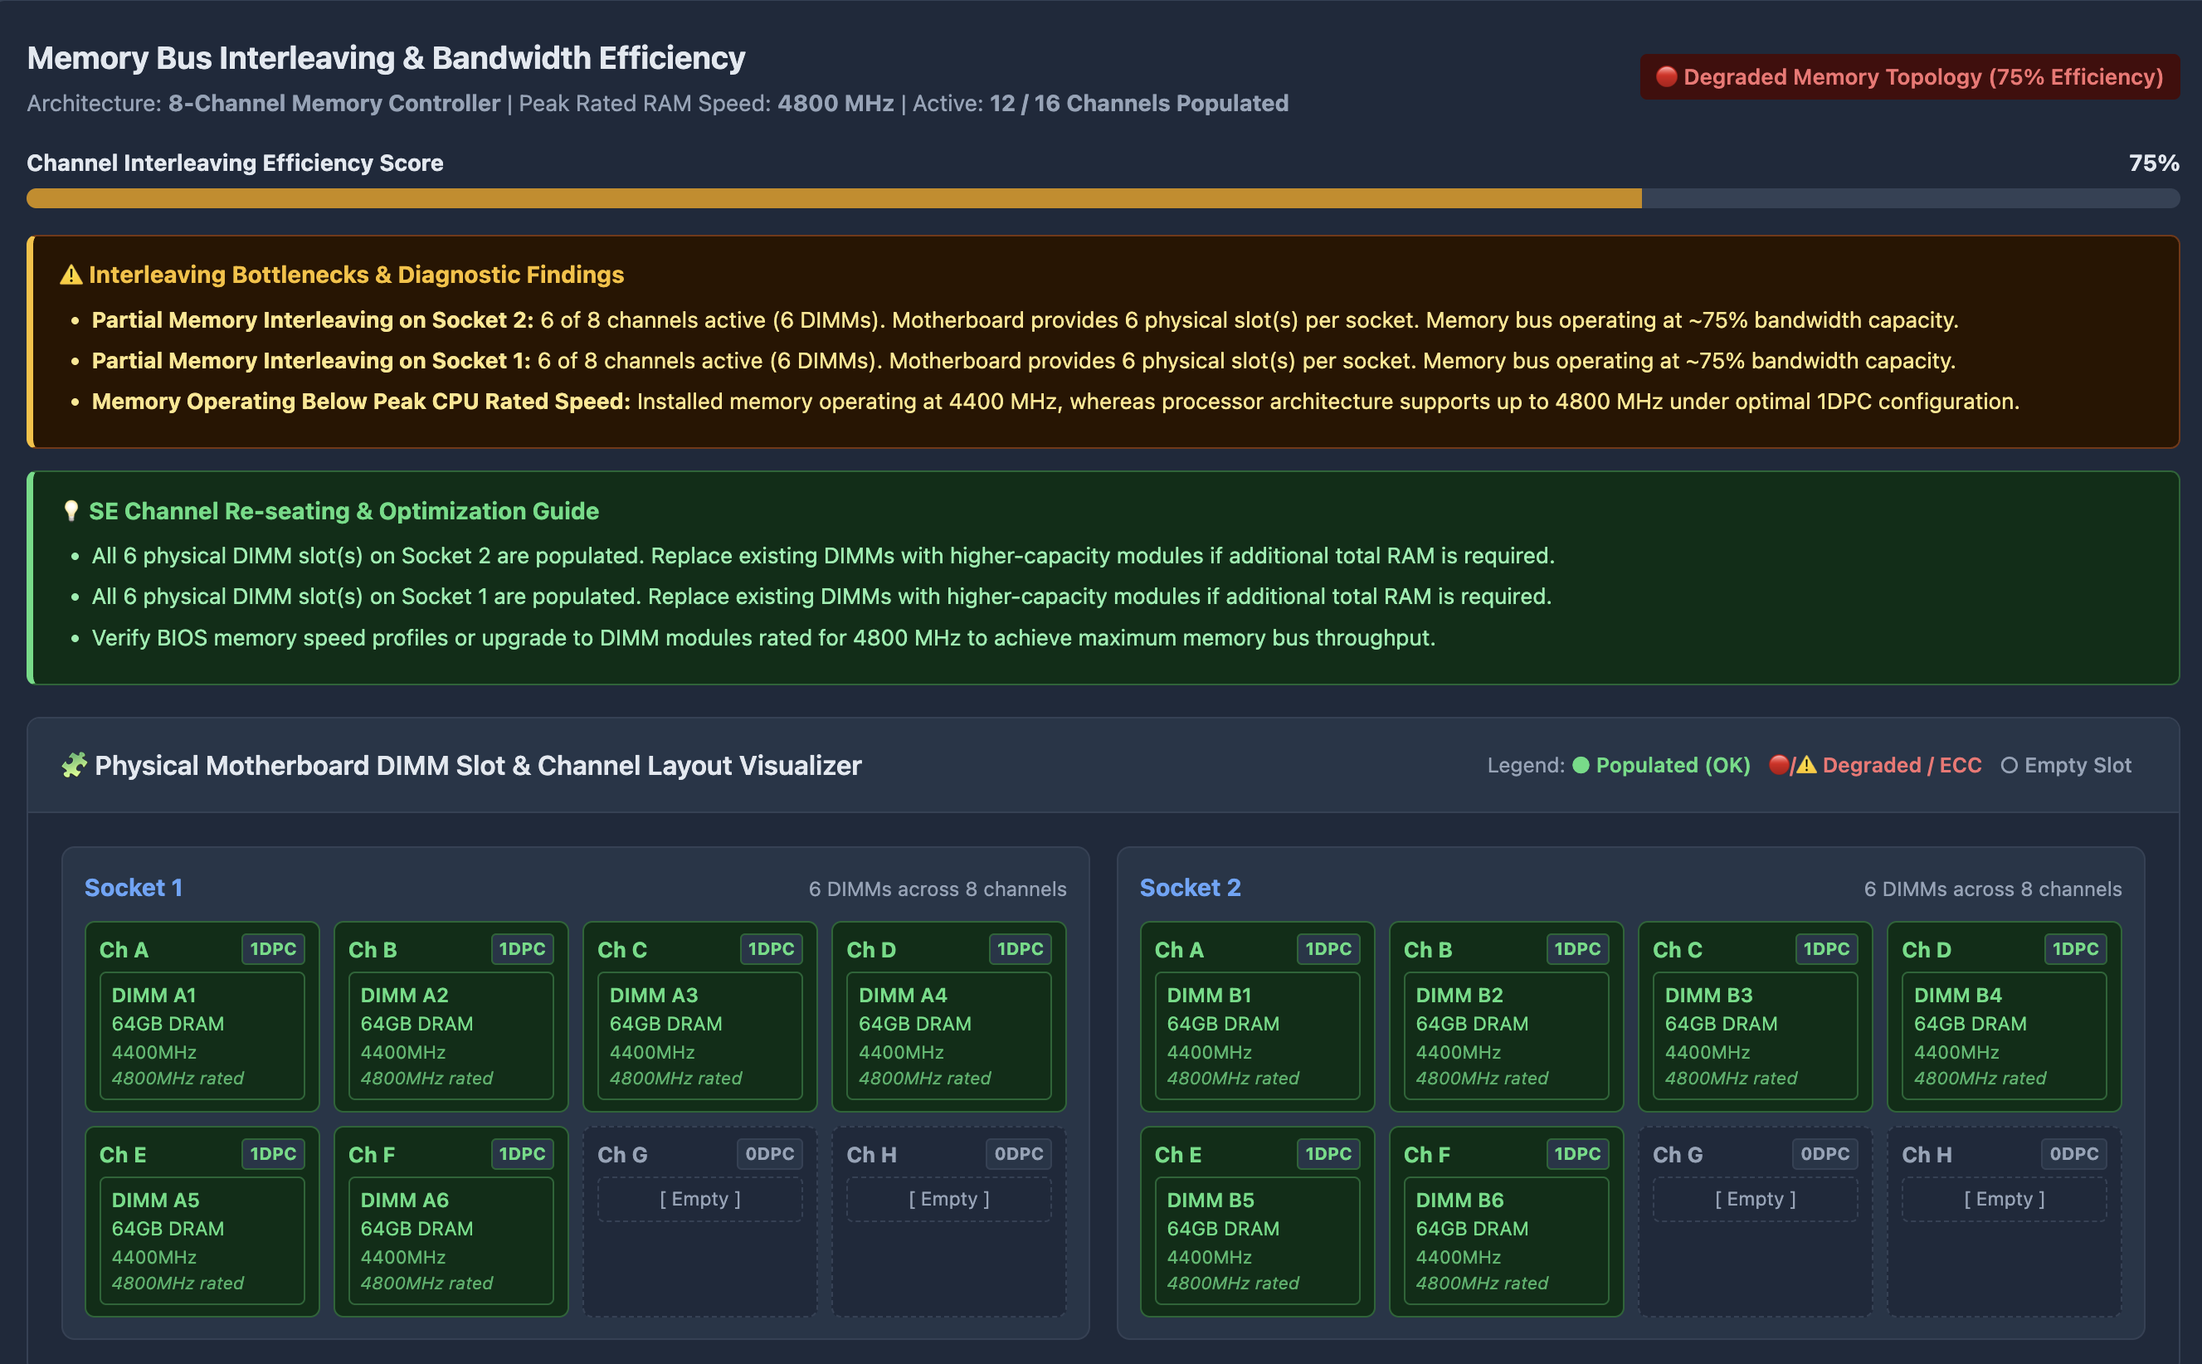
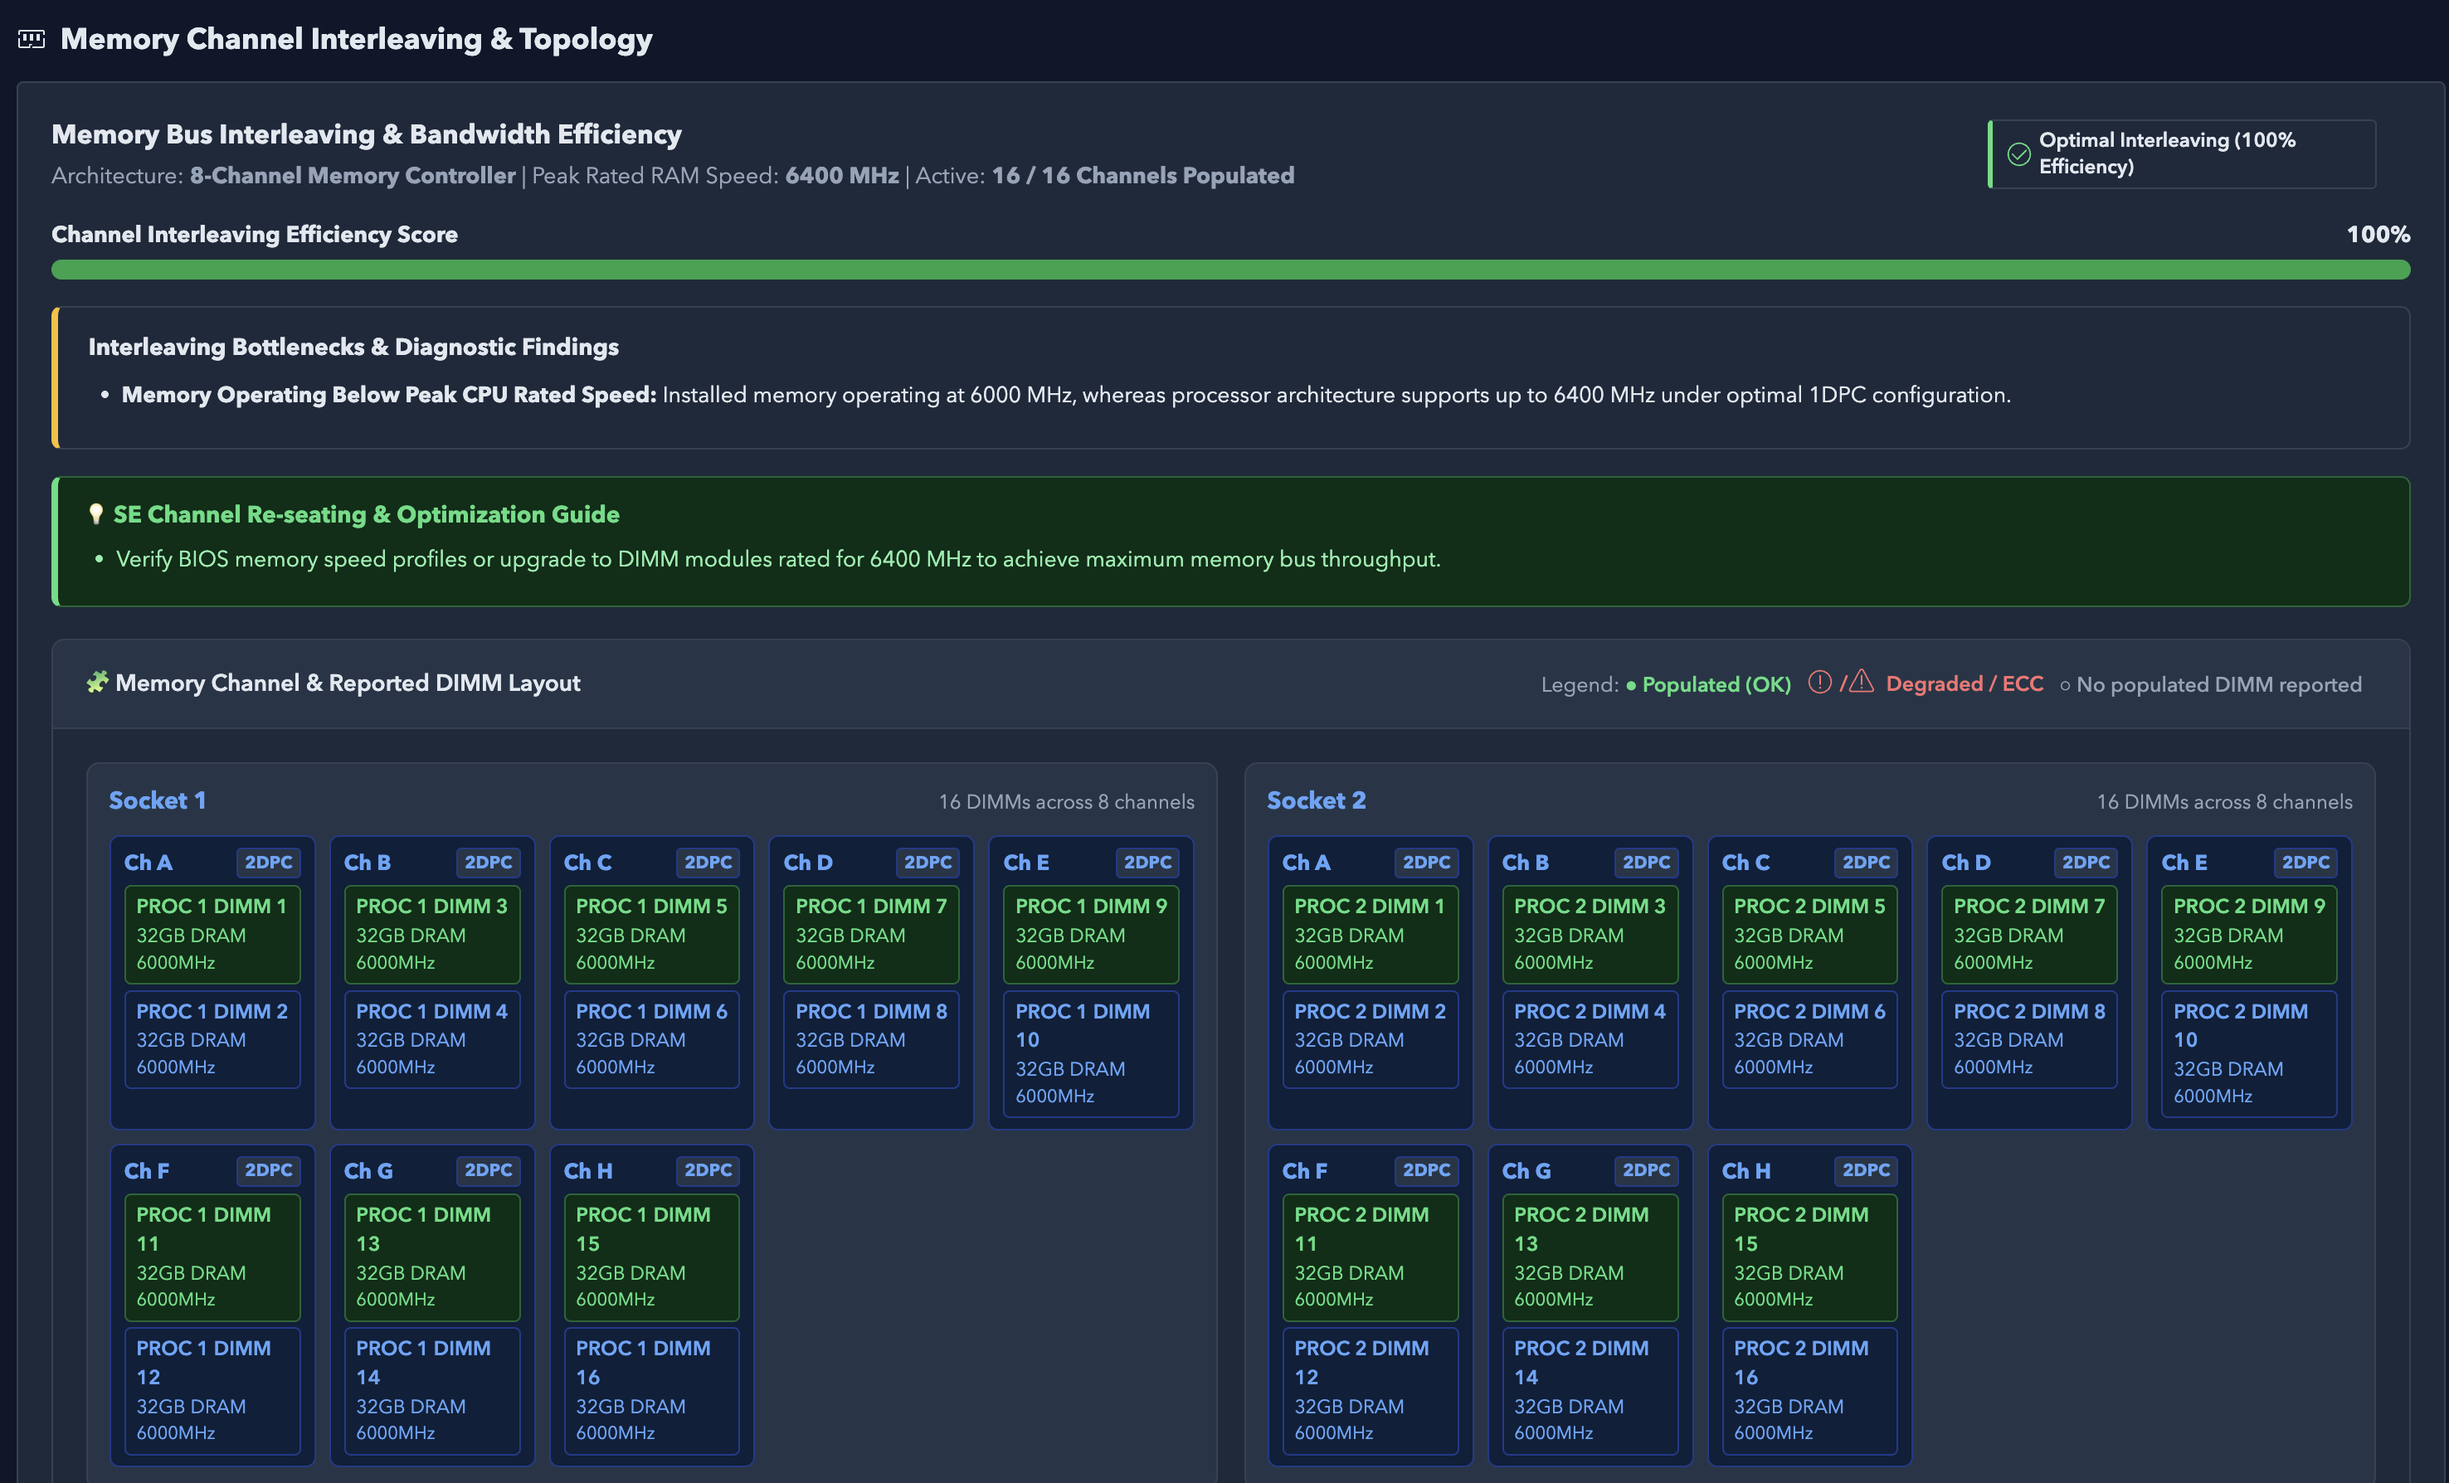
Refresh landing-page screenshots and showcase (#3)

diff --git a/README.md b/README.md
@@ -197,87 +197,63 @@ python3 vcfr_collector.py --from-summary ./VCF-Scans/Scan_example
 
 ## 📊 Visual Report Showcase
 
-Every assessment run generates rich, standalone HTML deliverables (an aggregated **Fleet Summary** and individual **Host Reports**) with zero runtime external asset dependencies.
+Current report and workflow screenshots. Click any image to view it at full resolution. Screenshots may show beta UI; feature availability depends on your release.
 
-> 🎥 **Video Tour:** Watch the [**Report Overview Video (8:20) →**](https://www.youtube.com/watch?v=tQkxyRHZu4M) for a guided walkthrough of the fleet summary, status badges, BIOS drift scorecard, and per-host sub-reports.
+### Fleet capacity and readiness
 
-### 1. Fleet Dashboard & Resource Headroom
-Start with Server Readiness, storage readiness and BMC security beside fleet raw-resource totals and sizing caveats. Server Readiness combines existing chassis qualification with CPU support and keeps vendor-support qualifications distinct from unsupported assessments. Click a count to inspect matching hosts, including unassessed results.
+[![Fleet capacity and readiness](docs/assets/screenshots/fleetview.png)](docs/assets/screenshots/fleetview.png)
 
-![Fleet Health and Management Headroom Tiles](docs/images/01-fleet-health-tiles.png)
+### Fleet security, power and health
 
-Fleet-wide power redundancy tracking, chassis power cap warnings, vSAN readiness distribution, and aggregate kilowatt telemetry:
+[![Fleet security, power and health](docs/assets/screenshots/fleet-tiles.png)](docs/assets/screenshots/fleet-tiles.png)
 
-![Fleet Power, vSAN Distribution, and Alarms](docs/images/02-fleet-power-sel-tor.png)
+### Host readiness scorecards
 
-- **Detailed Telemetry:** [Fleet Metric Health Tiles](docs/assets/screenshots/fleet-metric-tiles.png)
+[![Host readiness scorecards](docs/assets/screenshots/host-tiles.png)](docs/assets/screenshots/host-tiles.png)
 
----
+### CPU detection and architecture
 
-### 2. Interactive Per-Host Assessment Matrix
-Sort, search, and filter servers by OEM vendor, CPU support tier, TPM 2.0 status, and vSAN ESA readiness with direct links into individual host sub-reports. Detailed Inventory offers Comfortable and Compact density, a Columns chooser and Reset view. Layout choices retain complete export data. Keyboard navigation and focus management support report tabs and reference help.
+[![CPU detection and architecture](docs/assets/screenshots/cpu-detection.png)](docs/assets/screenshots/cpu-detection.png)
 
-![Per-Host Assessment Table](docs/images/03-per-host-table.png)
+### Memory performance review
 
-- **Detailed Telemetry:** [Multi-Host Fleet Status Grid](docs/assets/screenshots/fleet-multi-host-capture.png)
+[![Memory performance review](docs/assets/screenshots/memory-performance-review.png)](docs/assets/screenshots/memory-performance-review.png)
 
----
+### DIMM channels and topology
 
-### 3. Executive Hardware Scorecards & Subsystem Audits
-Color-coded executive summary scorecards highlighting CPU compatibility, BIOS currency, TPM 2.0 status, and vSAN driver/firmware alignment against the Broadcom Compatibility Guide (BCG).
+[![DIMM channels and topology](docs/assets/screenshots/memory-channel-topology.png)](docs/assets/screenshots/memory-channel-topology.png)
 
-![Executive Host Summary Scorecards](docs/images/08-host-scorecards.png)
+### Storage compatibility and firmware
 
-- **Detailed Telemetry:** [Single-Host Assessment Tiles](docs/assets/screenshots/single-host-server-tiles.png) • [Sub-Category Health Breakdown](docs/assets/screenshots/sub-category-system-overview.png)
+[![Storage compatibility and firmware](docs/assets/screenshots/vsan-drive-hcl-check.png)](docs/assets/screenshots/vsan-drive-hcl-check.png)
 
----
+### NVMe SMART health
 
-### 4. Physical Motherboard DIMM Slot & Channel Layout
-Visualizer mapping installed DIMM modules to physical CPU sockets and memory channels, detecting unbalanced memory interleaving, unpopulated channels, and memory operating below peak rated speeds.
+[![NVMe SMART health](docs/assets/screenshots/nvme-drive-smart-checks.png)](docs/assets/screenshots/nvme-drive-smart-checks.png)
 
-![Motherboard DIMM Slot and Channel Visualizer](docs/images/04-dimm-slot-visualizer.png)
+### Network fabric discovery
 
-- **Detailed Telemetry:** [Motherboard Channel Topology](docs/assets/screenshots/memory-channel-topology.png)
+[![Network fabric discovery](docs/assets/screenshots/network-switch-detection.png)](docs/assets/screenshots/network-switch-detection.png)
 
----
+### Fibre Channel discovery
 
-### 5. Storage Subsystem & vSAN ESA Qualification
-Evaluates storage controllers, RAID pass-through modes, and NVMe SSDs. Performs exact PCI Quad matching (`VID:DID:SVID:SSID`) against the Broadcom vSAN HCL dataset, calculates SMART drive wear/endurance remaining %, and generates one-click BCG search links.
+[![Fibre Channel discovery](docs/assets/screenshots/fibrechannel-discovery.png)](docs/assets/screenshots/fibrechannel-discovery.png)
 
-![Storage Subsystem and vSAN ESA Qualification](docs/images/05-storage-vsan-esa.png)
+### BIOS performance guidance
 
-- **Detailed Telemetry:** [vSAN ESA Drive Compliance](docs/assets/screenshots/vsan-esa-drive-compliance.png) • [Drive SMART Telemetry](docs/assets/screenshots/nvme-smart-health-telemetry.png) • [PCIe Lane Inventory](docs/assets/screenshots/pcie-lane-inventory.png)
+[![BIOS performance guidance](docs/assets/screenshots/performance-guide-audit.png)](docs/assets/screenshots/performance-guide-audit.png)
 
----
+### BMC hardening audit
 
-### 6. Network Interfaces & Top-of-Rack (ToR) Switch Fabric
-Identifies network adapters and port speeds (10 GbE for the tool’s Small/Edge readiness baseline; 25 GbE for Medium/Large profiles), queries LLDP and Cisco CDP neighbor data to discover connected Top-of-Rack switches, and correlates leaf switch pairs to highlight single-homed hosts and cabling miswires.
+[![BMC hardening audit](docs/assets/screenshots/hardening-audit-security.png)](docs/assets/screenshots/hardening-audit-security.png)
 
-![NIC Inventory and Dedicated BMC Management Port](docs/images/06-nic-tor-mapping.png)
+### Security diagnostics
 
-![Top-of-Rack Switch Fabric and Topology Matrix](docs/images/10-tor-switch-fabric.png)
+[![Security diagnostics](docs/assets/screenshots/security-review.png)](docs/assets/screenshots/security-review.png)
 
-- **Detailed Telemetry:** [NIC Optics & LLDP Detection](docs/assets/screenshots/nic-optics-lldp-detection.png) • [LLDP / CDP Switch Neighbors](docs/assets/screenshots/lldp-cdp-switch-neighbors.png)
+### HCL updates and dark-site support
 
----
-
-### 7. System Event Log (SEL / IML) & Diagnostic Decoders
-Extracts the latest Warning and Critical hardware alarms from the server's event log, integrating direct links to Dell EEMS diagnostic guides and HPE IML documentation.
-
-![System Assessment Summary and Event Log](docs/images/09-system-assessment-sel.png)
-
-- **Detailed Telemetry:** [System Event Log Monitoring](docs/assets/screenshots/system-event-log-monitoring.png)
-
----
-
-### 8. 84-Control BMC Hardware Security Audit & Golden BIOS Baseline
-Out-of-band security compliance audit evaluating 84 canonical controls aligned with the **CISA & NSA Joint BMC Hardening Guide**, **VMware Cloud Foundation Security Configuration Guide (SCG 9.1)**, and **NIST SP 800-193**. Evaluates BIOS performance drift against Broadcom VCF 9.1 Golden Baselines.
-
-![BMC Hardware Security Audit Findings](docs/images/07-bmc-security-audit.png)
-
-- **Detailed Telemetry:** [BMC Hardware Security Audit](docs/assets/screenshots/bmc-hardware-security-audit.png) • [Hardware Security Baseline](docs/assets/screenshots/hardware-security-baseline.png) • [BIOS Golden Baseline Drift](docs/assets/screenshots/bios-golden-baseline-drift.png) • [BIOS Performance Settings](docs/assets/screenshots/bios-performance-settings.png)
-
-> 📖 **Comprehensive Reference Guide:** For an exhaustive tab-by-tab and field-by-field reference explaining every metric, evaluation rule, official VMware KB, and the 84-control BMC security audit, see the [**User Guide & Reference Manual (docs/USER_GUIDE_REFERENCE.md)**](docs/USER_GUIDE_REFERENCE.md).
+[![HCL updates and dark-site support](docs/assets/screenshots/hcl-update-updating-darksite-support.png)](docs/assets/screenshots/hcl-update-updating-darksite-support.png)
 
 ---
 
